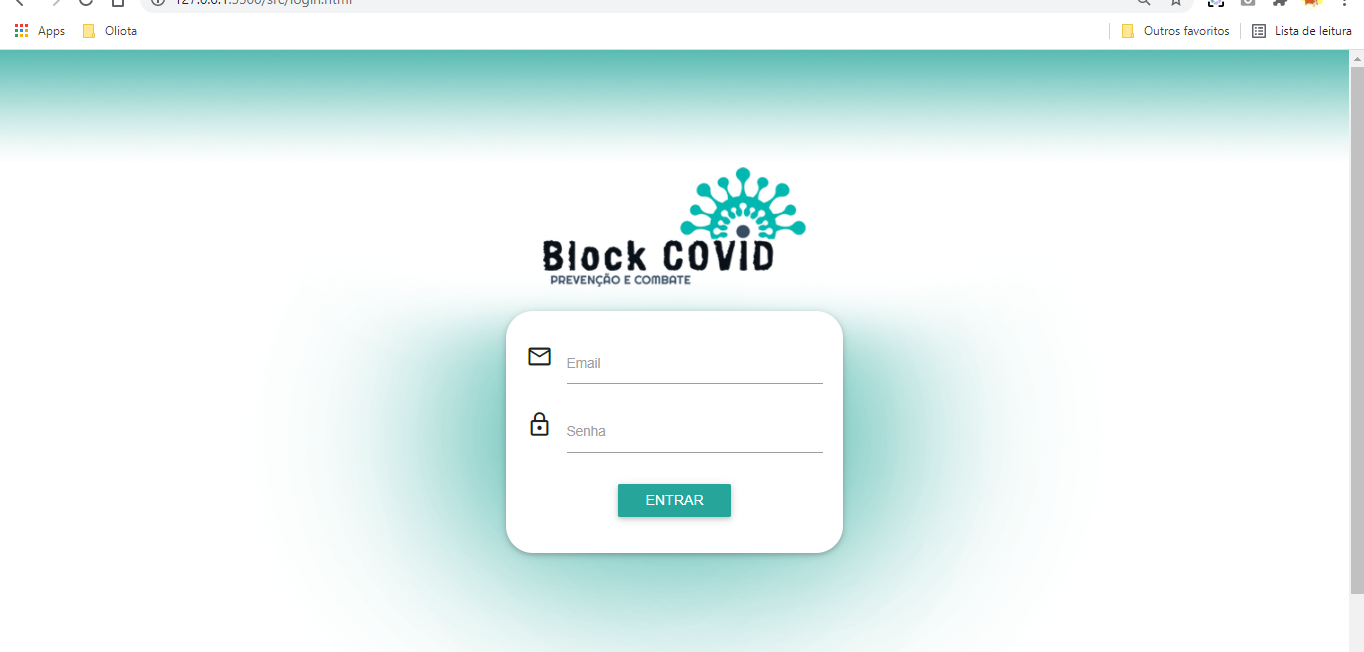
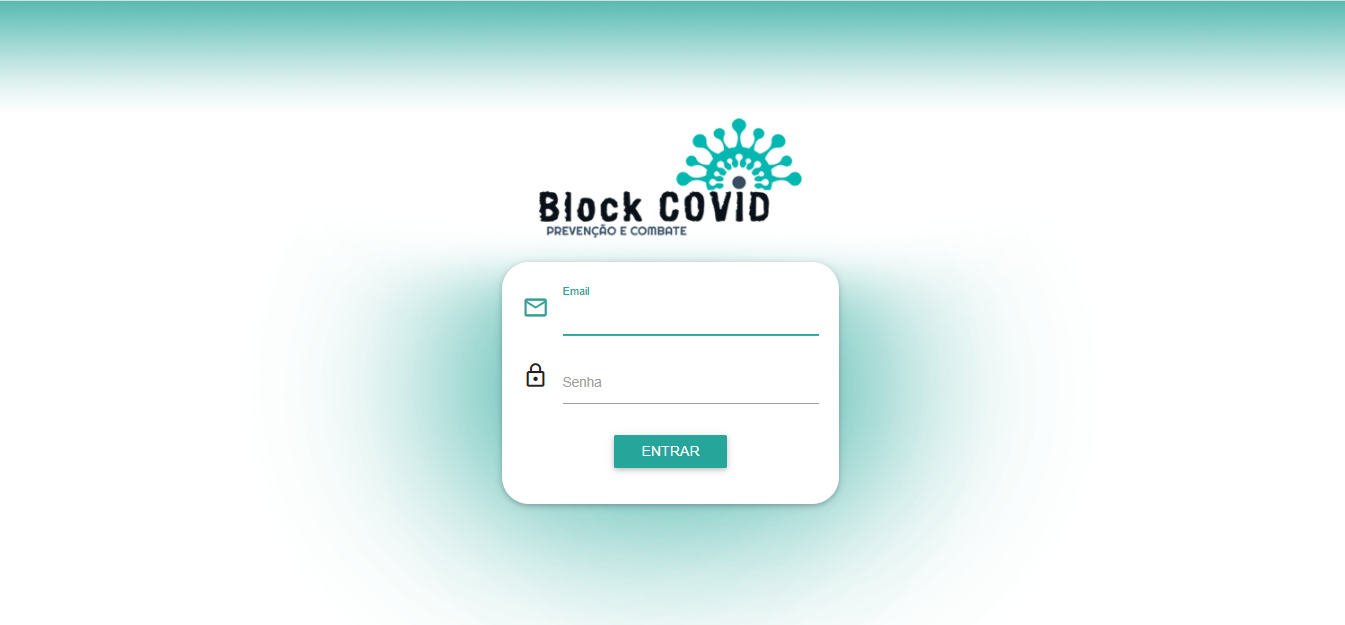
doc v5

Changed region(s): [[0.0, 0.0, 1.0, 0.912]]

diff --git a/doc/Modulo_prevencao/doc_login.md b/doc/Modulo_prevencao/doc_login.md
@@ -64,6 +64,10 @@ $("#login").on(                          // Para o elemento com id login
 
 Foi implementado com Html , css, e JS para viabilizar a execução de validação do acesso a aplicação . 
 
-## Protótipo
+## Protótipo tela de login
 
-![This is a alt text.](/img/login.png "This is a sample image.")
+![This is a alt text.](/img/login.png "Tela de login.")
+
+## Protótipo tela principal
+
+![This is a alt text.](/img/principal.png "Tela principal.")
